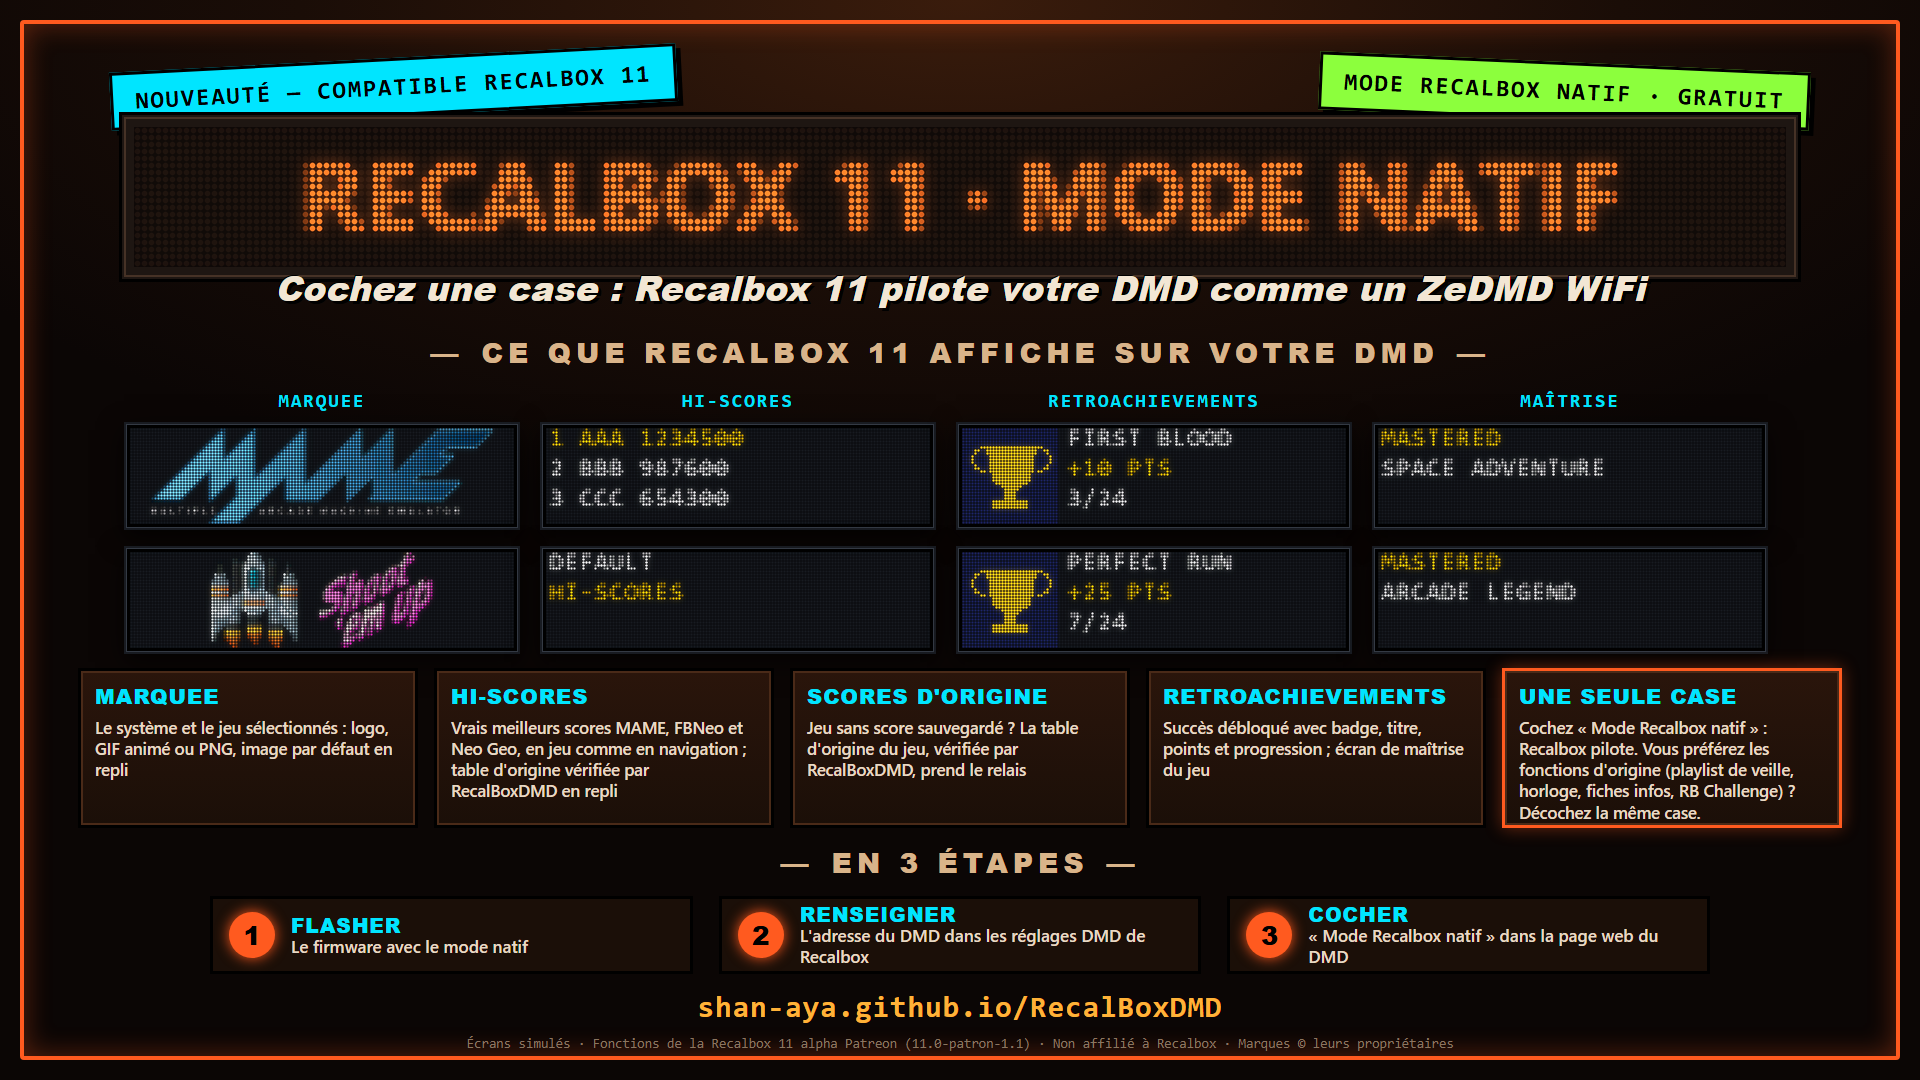
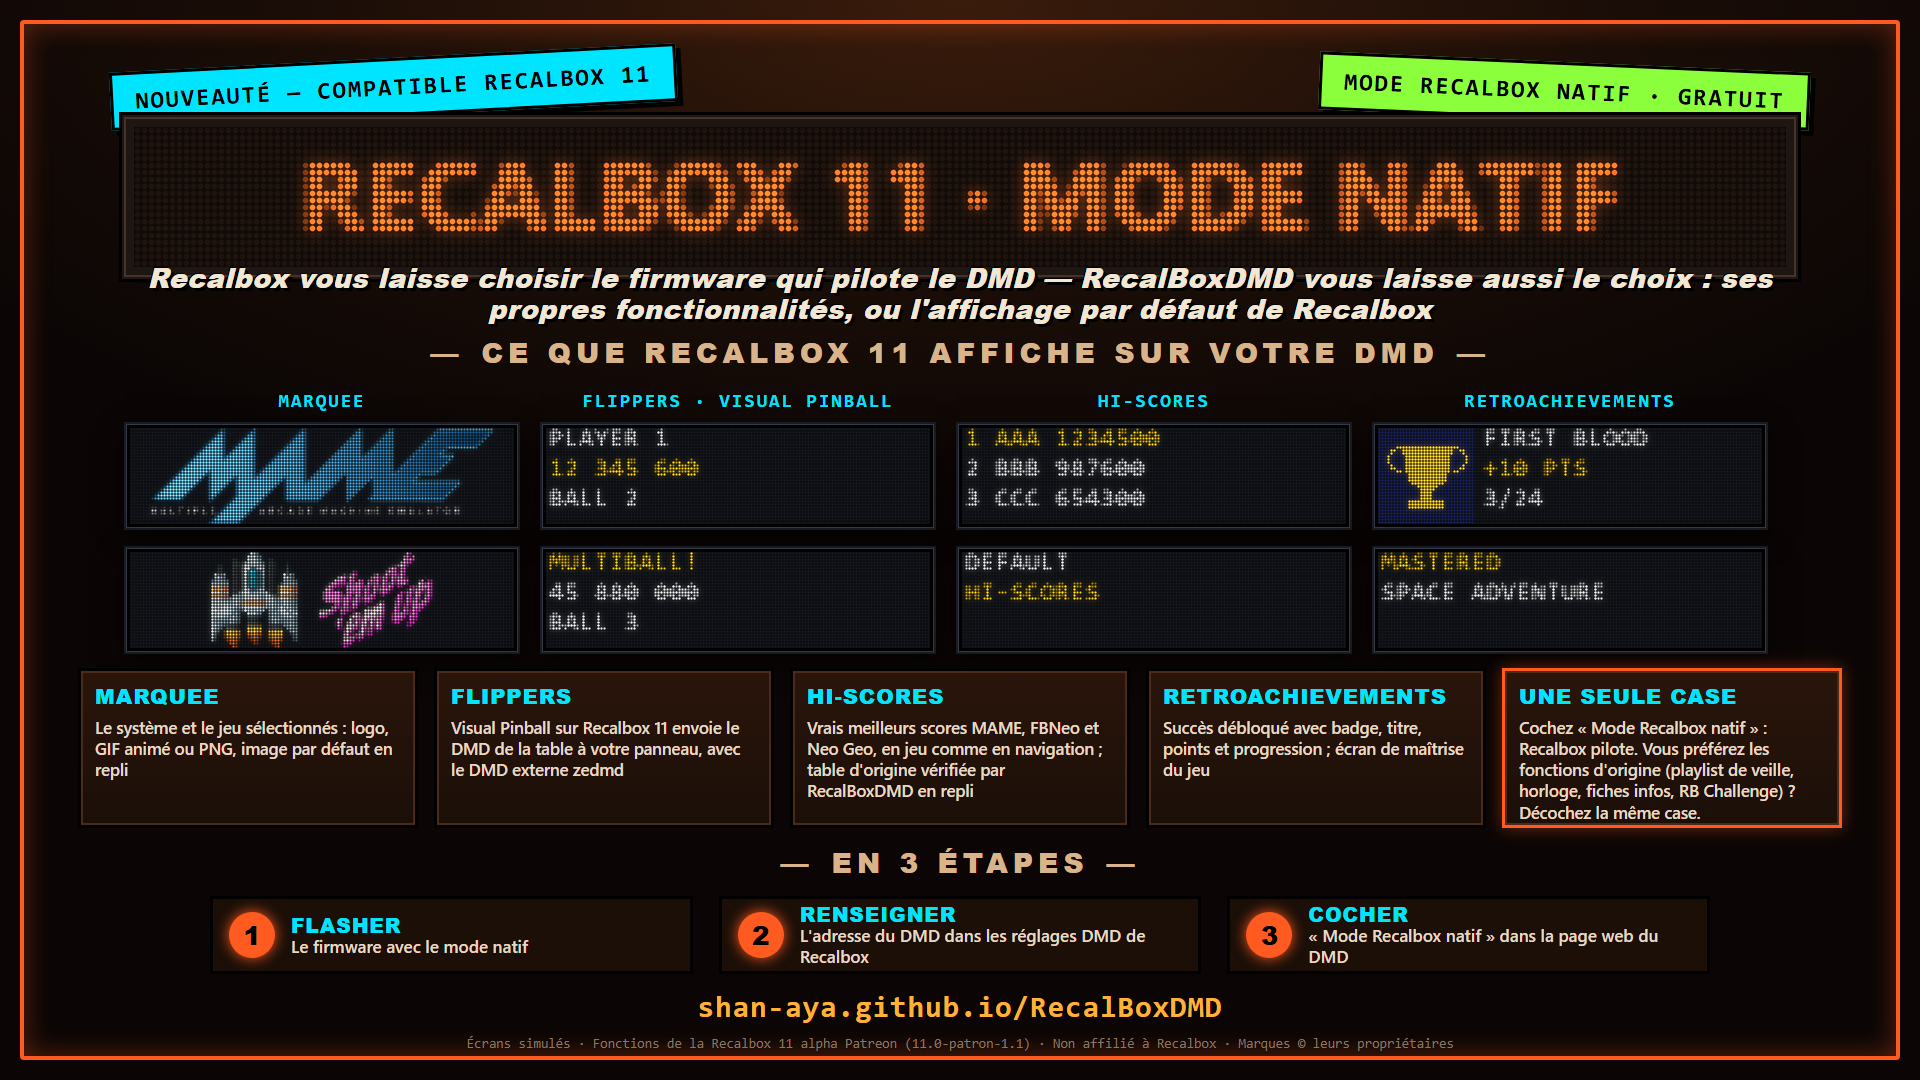
Page d'accueil + plaquette 7 : support de l'affichage Visual Pinball (au meme niveau que les autres fonctions) ; phrase d'en-tete sur le choix (fonctionnalites RecalboxDMD ou affichage par defaut de Recalbox) ; NON POUSSE

diff --git a/docs/index.html b/docs/index.html
@@ -536,26 +536,26 @@ footer.outro .support{margin-top:18px;font-size:15px}footer.outro .support a{col
   <section class="feat">
     <span class="eyebrow" style="color:var(--led-green, var(--amber))" data-i18n="s5d.eyebrow">Recalbox 11</span><span class="newtag" data-i18n="new.label">Nouveauté</span>
     <h2 data-i18n="s5d.h2">Prêt pour Recalbox 11 : le mode natif du firmware</h2>
-    <p data-i18n="s5d.p1">Recalbox 11 sait piloter lui-même un afficheur DMD, ZeDMD en USB ou en Wi-Fi compris. Le firmware du panneau sait s'y brancher : cochez « Mode Recalbox natif » dans la page web du panneau, et votre DMD se comporte comme un ZeDMD WiFi — c'est Recalbox qui décide de tout ce qui s'affiche.</p>
+    <p data-i18n="s5d.p1">Recalbox vous laisse choisir le firmware qui pilote le DMD, et RecalBoxDMD vous laisse aussi le choix : ses propres fonctionnalités, ou l'affichage par défaut de Recalbox. Recalbox 11 sait piloter lui-même un afficheur DMD, ZeDMD en USB ou en Wi-Fi compris. Le firmware du panneau sait s'y brancher : cochez « Mode Recalbox natif » dans la page web du panneau, et votre DMD se comporte comme un ZeDMD WiFi — c'est Recalbox qui décide de tout ce qui s'affiche.</p>
     <div class="grid2">
       <figure class="shot glow-b">
         <img src="media/native/marquee.png" data-i18n-alt="alt.native" alt="Écran simulé du panneau 128×32.">
-        <figcaption data-i18n="cap.native1">Marquee du système et du jeu</figcaption>
+        <figcaption data-i18n="cap.native1">x</figcaption>
+      </figure>
+      <figure class="shot glow-b">
+        <img src="media/native/pinball.png" data-i18n-alt="alt.native" alt="Écran simulé du panneau 128×32.">
+        <figcaption data-i18n="cap.native2">x</figcaption>
       </figure>
       <figure class="shot glow-b">
         <img src="media/native/hiscores.png" data-i18n-alt="alt.native" alt="Écran simulé du panneau 128×32.">
-        <figcaption data-i18n="cap.native2">Meilleurs scores</figcaption>
+        <figcaption data-i18n="cap.native3">x</figcaption>
       </figure>
       <figure class="shot glow-b">
         <img src="media/native/achievement.png" data-i18n-alt="alt.native" alt="Écran simulé du panneau 128×32.">
-        <figcaption data-i18n="cap.native3">Succès RetroAchievements</figcaption>
-      </figure>
-      <figure class="shot glow-b">
-        <img src="media/native/mastery.png" data-i18n-alt="alt.native" alt="Écran simulé du panneau 128×32.">
-        <figcaption data-i18n="cap.native4">Maîtrise d'un jeu</figcaption>
+        <figcaption data-i18n="cap.native4">x</figcaption>
       </figure>
     </div>
-    <p data-i18n="s5d.p2" style="margin-top:14px">Ce que Recalbox 11 y affiche : le marquee du système et du jeu sélectionnés (logo, GIF animé ou PNG) ; les meilleurs scores des jeux d'arcade MAME, FBNeo et Neo Geo, par pages de trois, avec la table d'origine du jeu vérifiée par RecalBoxDMD quand aucun score n'est sauvegardé ; et les succès RetroAchievements (badge, titre, points, progression, écran de maîtrise).</p>
+    <p data-i18n="s5d.p2" style="margin-top:14px">Ce que Recalbox 11 y affiche : le marquee du système et du jeu sélectionnés (logo, GIF animé ou PNG) ; l'écran des tables Visual Pinball, grâce au DMD externe pris en charge ; les meilleurs scores des jeux d'arcade MAME, FBNeo et Neo Geo, par pages de trois, avec la table d'origine du jeu vérifiée par RecalBoxDMD quand aucun score n'est sauvegardé ; et les succès RetroAchievements (badge, titre, points, progression, écran de maîtrise).</p>
     <p data-i18n="s5d.p3" style="margin-top:14px">Une seule case, dans les deux sens. Le mode natif remplace les fonctions propres du firmware ; si vous préférez les garder — playlist de veille en GIF, horloge à thèmes, fiches infos des jeux, RB Challenge, commandes par scripts — décochez simplement la même case : tout revient comme vous l'aviez réglé.</p>
     <p data-i18n="s5d.p4" style="margin-top:14px">Pour l'activer : 1. flashez le firmware avec le mode natif ; 2. dans Recalbox, renseignez l'adresse du DMD dans les réglages DMD (ZeDMD WiFi) — donnez une IP fixe à votre DMD pour qu'elle ne change pas ; 3. cochez « Mode Recalbox natif » dans la page web du DMD et redémarrez.</p>
     <p data-i18n="s5d.p5" style="opacity:.7;font-size:.9em;margin-top:14px">Hi-scores et RetroAchievements : fonctions de la Recalbox 11 alpha Patreon (11.0-patron-1.1). Écrans simulés d'après la mise en page de Recalbox 11.</p>
@@ -667,15 +667,15 @@ footer.outro .support{margin-top:18px;font-size:15px}footer.outro .support a{col
       "alt.themepanel": "Logo de la Super Nintendo affiché sur le panneau LED (rendu simulé à partir des vrais logos).",
       "s5d.eyebrow": "Recalbox 11",
       "s5d.h2": "Prêt pour Recalbox 11 : le mode natif du firmware",
-      "s5d.p1": "Recalbox 11 sait piloter lui-même un afficheur DMD, ZeDMD en USB ou en Wi-Fi compris. Le firmware du panneau sait s'y brancher : cochez « Mode Recalbox natif » dans la page web du panneau, et votre DMD se comporte comme un ZeDMD WiFi — c'est Recalbox qui décide de tout ce qui s'affiche.",
-      "s5d.p2": "Ce que Recalbox 11 y affiche : le marquee du système et du jeu sélectionnés (logo, GIF animé ou PNG) ; les meilleurs scores des jeux d'arcade MAME, FBNeo et Neo Geo, par pages de trois, avec la table d'origine du jeu vérifiée par RecalBoxDMD quand aucun score n'est sauvegardé ; et les succès RetroAchievements (badge, titre, points, progression, écran de maîtrise).",
+      "s5d.p1": "Recalbox vous laisse choisir le firmware qui pilote le DMD, et RecalBoxDMD vous laisse aussi le choix : ses propres fonctionnalités, ou l'affichage par défaut de Recalbox. Recalbox 11 sait piloter lui-même un afficheur DMD, ZeDMD en USB ou en Wi-Fi compris. Le firmware du panneau sait s'y brancher : cochez « Mode Recalbox natif » dans la page web du panneau, et votre DMD se comporte comme un ZeDMD WiFi — c'est Recalbox qui décide de tout ce qui s'affiche.",
+      "s5d.p2": "Ce que Recalbox 11 y affiche : le marquee du système et du jeu sélectionnés (logo, GIF animé ou PNG) ; l'écran des tables Visual Pinball, grâce au DMD externe pris en charge ; les meilleurs scores des jeux d'arcade MAME, FBNeo et Neo Geo, par pages de trois, avec la table d'origine du jeu vérifiée par RecalBoxDMD quand aucun score n'est sauvegardé ; et les succès RetroAchievements (badge, titre, points, progression, écran de maîtrise).",
       "s5d.p3": "Une seule case, dans les deux sens. Le mode natif remplace les fonctions propres du firmware ; si vous préférez les garder — playlist de veille en GIF, horloge à thèmes, fiches infos des jeux, RB Challenge, commandes par scripts — décochez simplement la même case : tout revient comme vous l'aviez réglé.",
       "s5d.p4": "Pour l'activer : 1. flashez le firmware avec le mode natif ; 2. dans Recalbox, renseignez l'adresse du DMD dans les réglages DMD (ZeDMD WiFi) — donnez une IP fixe à votre DMD pour qu'elle ne change pas ; 3. cochez « Mode Recalbox natif » dans la page web du DMD et redémarrez.",
       "s5d.p5": "Hi-scores et RetroAchievements : fonctions de la Recalbox 11 alpha Patreon (11.0-patron-1.1). Écrans simulés d'après la mise en page de Recalbox 11.",
       "cap.native1": "Marquee du système et du jeu",
-      "cap.native2": "Meilleurs scores",
-      "cap.native3": "Succès RetroAchievements",
-      "cap.native4": "Maîtrise d'un jeu",
+      "cap.native2": "Table Visual Pinball",
+      "cap.native3": "Meilleurs scores",
+      "cap.native4": "Succès RetroAchievements",
       "alt.native": "Écran simulé du panneau 128×32.",
       "cap.marqueehiscore": "Marquee + Hi-Score", "cap.infosjeu": "Fiche du jeu", "cap.shuffle": "Navigation rapide", "cap.challenge": "Challenge RB",
       "s5b.eyebrow": "Visual Pinball", "s5b.h2": "Vos flippers virtuels s'affichent aussi sur le DMD", "s5b.p": "Lancez une table Visual Pinball depuis votre Recalbox : le DMD affiche en direct l'écran de la table, comme un vrai afficheur de flipper — puis reprend tout seul son marquee habituel à la fin de la partie. Sans redémarrage, activable d'un simple interrupteur dans la page web du panneau. Les tables colorisées (Serum) s'affichent en couleur, les autres gardent le rendu monochrome classique.", "cap.vpinballcolor": "Table colorisée (Serum) — AC/DC, en attente puis en jeu", "cap.vpinballmono": "Rendu classique monochrome — Indiana Jones Pinball Adventure, en attente puis en jeu",
@@ -746,15 +746,15 @@ footer.outro .support{margin-top:18px;font-size:15px}footer.outro .support a{col
       "alt.themepanel": "Super Nintendo logo shown on the LED panel (simulated rendering from the real logos).",
       "s5d.eyebrow": "Recalbox 11",
       "s5d.h2": "Ready for Recalbox 11: the firmware's native mode",
-      "s5d.p1": "Recalbox 11 can drive a DMD display by itself, ZeDMD over USB or Wi-Fi included. The panel's firmware knows how to plug into it: tick “Native Recalbox mode” on the panel's web page and your DMD behaves like a ZeDMD WiFi — Recalbox decides everything that is shown.",
-      "s5d.p2": "What Recalbox 11 shows on it: the marquee of the selected system and game (logo, animated GIF or PNG); the top scores of MAME, FBNeo and Neo Geo arcade games, in pages of three, with the game's default table verified by RecalBoxDMD when no score is saved; and RetroAchievements unlocks (badge, title, points, progress, mastery screen).",
+      "s5d.p1": "Recalbox lets you choose the firmware that drives the DMD, and RecalBoxDMD gives you the choice too: its own features, or Recalbox's default display. Recalbox 11 can drive a DMD display by itself, ZeDMD over USB or Wi-Fi included. The panel's firmware knows how to plug into it: tick “Native Recalbox mode” on the panel's web page and your DMD behaves like a ZeDMD WiFi — Recalbox decides everything that is shown.",
+      "s5d.p2": "What Recalbox 11 shows on it: the marquee of the selected system and game (logo, animated GIF or PNG); the screen of Visual Pinball tables, thanks to the supported external DMD; the top scores of MAME, FBNeo and Neo Geo arcade games, in pages of three, with the game's default table verified by RecalBoxDMD when no score is saved; and RetroAchievements unlocks (badge, title, points, progress, mastery screen).",
       "s5d.p3": "One box, both ways. Native mode replaces the firmware's own features; if you'd rather keep them — idle GIF playlist, themed clock, game info screens, RB Challenge, script commands — just untick the same box: everything comes back as you had set it.",
       "s5d.p4": "To turn it on: 1. flash the firmware with native mode; 2. in Recalbox, enter the DMD's address in the DMD settings (ZeDMD WiFi) — give your DMD a fixed IP so it doesn't change; 3. tick “Native Recalbox mode” on the DMD's web page and reboot.",
       "s5d.p5": "Hi-scores and RetroAchievements: features of the Recalbox 11 Patreon alpha (11.0-patron-1.1). Screens simulated after Recalbox 11's layout.",
       "cap.native1": "System and game marquee",
-      "cap.native2": "Top scores",
-      "cap.native3": "RetroAchievements unlock",
-      "cap.native4": "Game mastery",
+      "cap.native2": "Visual Pinball table",
+      "cap.native3": "Top scores",
+      "cap.native4": "RetroAchievements unlock",
       "alt.native": "Simulated 128×32 panel screen.",
       "cap.marqueehiscore": "Marquee + Hi-Score", "cap.infosjeu": "Game info", "cap.shuffle": "Fast scroll", "cap.challenge": "RB Challenge",
       "s5b.eyebrow": "Visual Pinball", "s5b.h2": "Your virtual pinball tables show up on the DMD too", "s5b.p": "Launch a Visual Pinball table from your Recalbox: the DMD shows the table's screen live, like a real pinball display — then goes back to its usual marquee by itself when the game ends. No reboot, enabled with a single switch in the panel's web page. Colorized (Serum) tables show in color; the others keep the classic monochrome look.", "cap.vpinballcolor": "Colorized table (Serum) — AC/DC, idle then in play", "cap.vpinballmono": "Classic monochrome look — Indiana Jones Pinball Adventure, idle then in play",
@@ -825,15 +825,15 @@ footer.outro .support{margin-top:18px;font-size:15px}footer.outro .support a{col
       "alt.themepanel": "Logo de Super Nintendo en el panel LED (render simulado a partir de los logos reales).",
       "s5d.eyebrow": "Recalbox 11",
       "s5d.h2": "Listo para Recalbox 11: el modo nativo del firmware",
-      "s5d.p1": "Recalbox 11 sabe manejar por sí mismo una pantalla DMD, ZeDMD por USB o Wi-Fi incluido. El firmware del panel sabe conectarse a él: marca «Modo Recalbox nativo» en la página web del panel y tu DMD se comporta como un ZeDMD WiFi — Recalbox decide todo lo que se muestra.",
-      "s5d.p2": "Lo que Recalbox 11 muestra en él: el marquee del sistema y del juego seleccionados (logo, GIF animado o PNG); las mejores puntuaciones de los juegos de arcade MAME, FBNeo y Neo Geo, en páginas de tres, con la tabla de origen del juego verificada por RecalBoxDMD cuando no hay ninguna puntuación guardada; y los logros de RetroAchievements (insignia, título, puntos, progreso, pantalla de maestría).",
+      "s5d.p1": "Recalbox te deja elegir el firmware que maneja el DMD, y RecalBoxDMD también te da a elegir: sus propias funciones, o la pantalla por defecto de Recalbox. Recalbox 11 sabe manejar por sí mismo una pantalla DMD, ZeDMD por USB o Wi-Fi incluido. El firmware del panel sabe conectarse a él: marca «Modo Recalbox nativo» en la página web del panel y tu DMD se comporta como un ZeDMD WiFi — Recalbox decide todo lo que se muestra.",
+      "s5d.p2": "Lo que Recalbox 11 muestra en él: el marquee del sistema y del juego seleccionados (logo, GIF animado o PNG); la pantalla de las mesas de Visual Pinball, gracias al DMD externo admitido; las mejores puntuaciones de los juegos de arcade MAME, FBNeo y Neo Geo, en páginas de tres, con la tabla de origen del juego verificada por RecalBoxDMD cuando no hay ninguna puntuación guardada; y los logros de RetroAchievements (insignia, título, puntos, progreso, pantalla de maestría).",
       "s5d.p3": "Una sola casilla, en los dos sentidos. El modo nativo sustituye las funciones propias del firmware; si prefieres conservarlas — playlist de espera en GIF, reloj con temas, fichas de información de los juegos, RB Challenge, comandos por scripts — desmarca simplemente la misma casilla: todo vuelve como lo habías configurado.",
       "s5d.p4": "Para activarlo: 1. flashea el firmware con modo nativo; 2. en Recalbox, indica la dirección del DMD en los ajustes DMD (ZeDMD WiFi) — dale una IP fija a tu DMD para que no cambie; 3. marca «Modo Recalbox nativo» en la página web del DMD y reinicia.",
       "s5d.p5": "Hi-scores y RetroAchievements: funciones de la Recalbox 11 alfa Patreon (11.0-patron-1.1). Pantallas simuladas según el diseño de Recalbox 11.",
       "cap.native1": "Marquee del sistema y del juego",
-      "cap.native2": "Mejores puntuaciones",
-      "cap.native3": "Logro de RetroAchievements",
-      "cap.native4": "Maestría de un juego",
+      "cap.native2": "Mesa de Visual Pinball",
+      "cap.native3": "Mejores puntuaciones",
+      "cap.native4": "Logro de RetroAchievements",
       "alt.native": "Pantalla simulada del panel 128×32.",
       "cap.marqueehiscore": "Marquee + Hi-Score", "cap.infosjeu": "Ficha del juego", "cap.shuffle": "Navegación rápida", "cap.challenge": "Challenge RB",
       "s5b.eyebrow": "Visual Pinball", "s5b.h2": "Tus mesas de pinball virtual también se muestran en el DMD", "s5b.p": "Lanza una mesa de Visual Pinball desde tu Recalbox: el DMD muestra en directo la pantalla de la mesa, como un verdadero display de pinball — y vuelve solo a su marquee habitual al terminar la partida. Sin reinicio, se activa con un simple interruptor en la página web del panel. Las mesas coloreadas (Serum) se ven en color; las demás conservan el aspecto monocromo clásico.", "cap.vpinballcolor": "Mesa coloreada (Serum) — AC/DC, en reposo y en juego", "cap.vpinballmono": "Aspecto monocromo clásico — Indiana Jones Pinball Adventure, en reposo y en juego",
